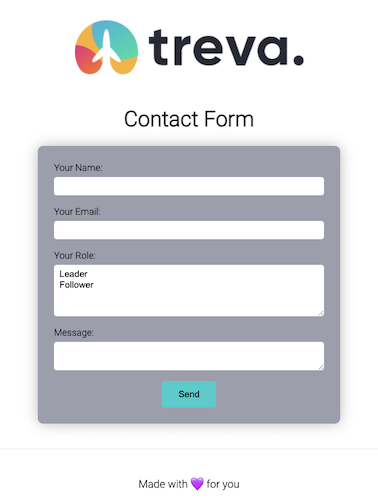
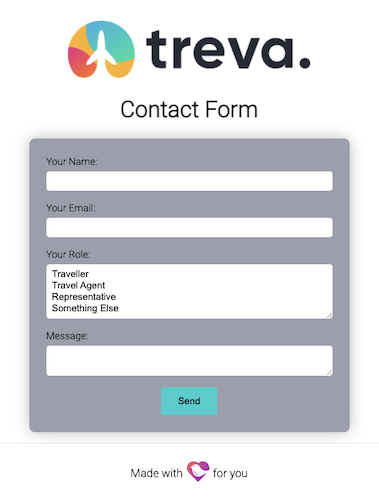
Updated role select and updated the screen shot

Changed region(s): [[0.0582, 0.18, 0.9312, 0.87], [0.1746, 0.03, 0.8148, 0.18], [0.3492, 0.9, 0.6693, 0.99]]

diff --git a/publish/index.html b/publish/index.html
@@ -29,8 +29,10 @@
           <label
             >Your Role:
             <select name="role[]" multiple>
-              <option value="leader">Leader</option>
-              <option value="follower">Follower</option>
+              <option value="traveller">Traveller</option>
+              <option value="agent">Travel Agent</option>
+              <option value="representative">Representative</option>
+              <option value="other">Something Else</option>
             </select></label
           >
 
